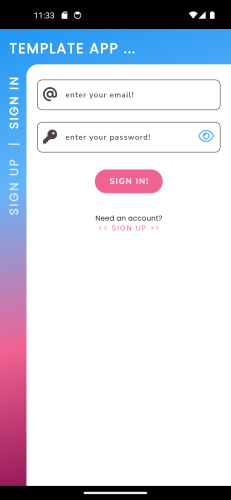
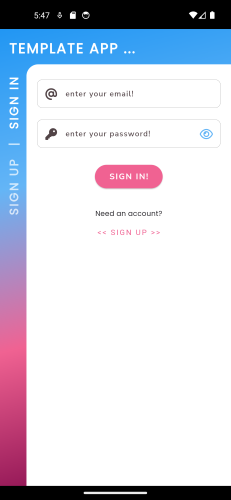
Notification

Changed region(s): [[0.1515, 0.15, 0.9697, 0.39], [0.3939, 0.42, 0.697, 0.48], [0.1515, 0.0, 0.3939, 0.06]]

diff --git a/lib/views/widgets/scaffold/app_bar/button_popup_menu_app_bar.dart b/lib/views/widgets/scaffold/app_bar/button_popup_menu_app_bar.dart
@@ -15,6 +15,9 @@ import 'package:template_app/controllers/authentication_controller.dart';
 class ButtonPopupMenuAppBar extends StatelessWidget {
   const ButtonPopupMenuAppBar({super.key});
 
+  // Pour le test.
+  static const int _count = 3;
+
   @override
   Widget build(BuildContext context) {
     return Positioned(
@@ -22,15 +25,34 @@ class ButtonPopupMenuAppBar extends StatelessWidget {
       right: 20.0,
       child: PopupMenuButton<TypeMenuPopup>(
         style: ButtonsTheme.iconButtonSquare,
-        icon: const Icon(Icons.more_vert),
+        icon: (_count <= 0)
+            ? const Icon(Icons.more_vert)
+            : Badge.count(
+                count: _count,
+                child: const Icon(Icons.more_vert),
+              ),
         onSelected: (TypeMenuPopup item) {},
         itemBuilder: (BuildContext context) {
           return <PopupMenuEntry<TypeMenuPopup>>[
             PopupMenuItem<TypeMenuPopup>(
+              value: TypeMenuPopup.typeNotifier,
+              child: ListTile(
+                onTap: () {},
+                leading: (_count <= 0)
+                    ? const Icon(Icons.notifications, size: 20.0)
+                    : Badge.count(
+                        count: _count,
+                        child: const Icon(Icons.notifications, size: 20.0),
+                      ),
+                title: const Text(TextsConstant.kPopupBtnNotification),
+              ),
+            ),
+            const PopupMenuDivider(height: 0.2),
+            PopupMenuItem<TypeMenuPopup>(
               value: TypeMenuPopup.typeInformation,
               child: ListTile(
                 onTap: () => context.push(RoutesConstant.kRouteInformation),
-                leading: const FaIcon(FontAwesomeIcons.info, size: 16.0),
+                leading: const Icon(FontAwesomeIcons.info, size: 20.0),
                 title: const Text(TextsConstant.kPopupBtnInformation),
               ),
             ),
@@ -53,7 +75,7 @@ class ButtonPopupMenuAppBar extends StatelessWidget {
                     SnackBarMessage.show(context: context, typeMessage: TypeMessage.typeError, message: e.toString());
                   }
                 },
-                leading: const FaIcon(FontAwesomeIcons.rightFromBracket, size: 16.0),
+                leading: const Icon(FontAwesomeIcons.rightFromBracket, size: 20.0),
                 title: const Text(TextsConstant.kPopupBtnDisconnection),
               ),
             ),

diff --git a/lib/views/screens/presentation/presentation_screen.dart b/lib/views/screens/presentation/presentation_screen.dart
@@ -66,7 +66,7 @@ class _PresentationScreenState extends State<PresentationScreen> {
                         : IconButton(
                             style: ButtonsTheme.iconButtonCircle,
                             onPressed: () => _pageController.animateToPage(_currentPage - 1, duration: const Duration(milliseconds: 200), curve: Curves.easeIn),
-                            icon: const FaIcon(FontAwesomeIcons.caretLeft, size: 24.0),
+                            icon: const Icon(FontAwesomeIcons.caretLeft, size: 24.0),
                           ),
                   ),
                   Expanded(
@@ -87,7 +87,7 @@ class _PresentationScreenState extends State<PresentationScreen> {
                         : IconButton(
                             style: ButtonsTheme.iconButtonCircle,
                             onPressed: () => _pageController.animateToPage(_currentPage + 1, duration: const Duration(milliseconds: 200), curve: Curves.easeIn),
-                            icon: const FaIcon(FontAwesomeIcons.caretRight, size: 24.0),
+                            icon: const Icon(FontAwesomeIcons.caretRight, size: 24.0),
                           ),
                   ),
                 ],

diff --git a/lib/views/screens/main/pages/home_page.dart b/lib/views/screens/main/pages/home_page.dart
@@ -2,7 +2,7 @@ import 'package:flutter/material.dart';
 import 'package:template_app/common/constants/texts_constant.dart';
 import 'package:template_app/common/extensions/string_extensions.dart';
 import 'package:template_app/views/widgets/scaffold/app_bar/background_app_bar.dart';
-import 'package:template_app/views/widgets/scaffold/app_bar/button_notification_app_bar.dart';
+import 'package:template_app/views/widgets/scaffold/app_bar/button_filter_search_app_bar.dart';
 import 'package:template_app/views/widgets/scaffold/app_bar/button_popup_menu_app_bar.dart';
 import 'package:template_app/views/widgets/scaffold/app_bar/search_text_field_app_bar.dart';
 import 'package:template_app/views/widgets/scaffold/app_bar/title_app_bar.dart';
@@ -20,10 +20,10 @@ class HomePage extends StatelessWidget {
             const TitleAppBar(),
             SearchTextFieldAppBar(
               onSubmitted: (value) {
-                print(value);
+                // print(value);
               },
             ),
-            const ButtonNotificationAppBar(),
+            const ButtonFilterSearchAppBar(),
             const ButtonPopupMenuAppBar(),
             Positioned(
               left: 0.0,

diff --git a/lib/views/widgets/form/by_usual/text_form_field_password.dart b/lib/views/widgets/form/by_usual/text_form_field_password.dart
@@ -36,13 +36,13 @@ class _TextFormFieldPasswordState extends State<TextFormFieldPassword> {
           hintText: TextsConstant.kPassword,
           prefixIcon: const Padding(
             padding: EdgeInsets.all(10.0),
-            child: FaIcon(FontAwesomeIcons.key),
+            child: Icon(FontAwesomeIcons.key, size: 20.0),
           ),
           suffixIcon: Padding(
             padding: const EdgeInsets.all(10.0),
             child: GestureDetector(
               onTap: () => setState(() => _obscureTextPassword = !_obscureTextPassword),
-              child: FaIcon(_obscureTextPassword ? FontAwesomeIcons.eye : FontAwesomeIcons.eyeSlash, color: ColorsTheme.kBlueLight),
+              child: Icon(_obscureTextPassword ? FontAwesomeIcons.eye : FontAwesomeIcons.eyeSlash, size: 20.0, color: ColorsTheme.kBlueLight),
             ),
           ),
         ),

diff --git a/lib/views/widgets/scaffold/app_bar/search_text_field_app_bar.dart b/lib/views/widgets/scaffold/app_bar/search_text_field_app_bar.dart
@@ -42,7 +42,7 @@ class _SearchTextFieldAppBarState extends State<SearchTextFieldAppBar> {
               alignment: Alignment.center,
               child: GestureDetector(
                 onTap: () => widget.onSubmitted(_searchController.text),
-                child: const FaIcon(
+                child: const Icon(
                   FontAwesomeIcons.magnifyingGlass,
                   color: ColorsTheme.kBlack,
                   size: 20.0,
@@ -57,7 +57,7 @@ class _SearchTextFieldAppBarState extends State<SearchTextFieldAppBar> {
                   _searchController.text = "";
                   widget.onSubmitted("");
                 },
-                child: const FaIcon(
+                child: const Icon(
                   FontAwesomeIcons.xmark,
                   color: ColorsTheme.kBlack,
                   size: 20.0,

diff --git a/lib/views/widgets/scaffold/app_bar/button_filter_search_app_bar.dart b/lib/views/widgets/scaffold/app_bar/button_filter_search_app_bar.dart
@@ -1,0 +1,24 @@
+import 'package:flutter/material.dart';
+import 'package:font_awesome_flutter/font_awesome_flutter.dart';
+import 'package:template_app/common/constants/texts_constant.dart';
+import 'package:template_app/common/themes/buttons_theme.dart';
+
+class ButtonFilterSearchAppBar extends StatelessWidget {
+  const ButtonFilterSearchAppBar({super.key});
+
+  @override
+  Widget build(BuildContext context) {
+    return Positioned(
+      top: 40.0,
+      right: 65.0,
+      child: IconButton(
+        style: ButtonsTheme.iconButtonSquare,
+        icon: const Icon(FontAwesomeIcons.sliders),
+        onPressed: () {
+          // TODO: Brancher le compteur.
+        },
+        tooltip: TextsConstant.kTooltipButtonFilterSearch,
+      ),
+    );
+  }
+}

diff --git a/lib/common/constants/texts_constant.dart b/lib/common/constants/texts_constant.dart
@@ -20,6 +20,7 @@ class TextsConstant {
   static const String kBtnSkipIntro = "Skip Intro";
   static const String kBtnGetStarted = "Let's Get Started";
 
+  static const String kPopupBtnNotification = "Notifications";
   static const String kPopupBtnInformation = "Information";
   static const String kPopupBtnDisconnection = "Disconnection";
 
@@ -37,6 +38,7 @@ class TextsConstant {
 
   static const String kTooltipButtonBack = "Back";
   static const String kTooltipButtonNotification = "Notifications";
+  static const String kTooltipButtonFilterSearch = "Filter search";
 
   static const String kAppName = "name";
   static const String kAppVersion = "version";

diff --git a/lib/common/themes/datas_theme.dart b/lib/common/themes/datas_theme.dart
@@ -17,7 +17,7 @@ class DatasTheme {
       centerTitle: true,
     ),
     textTheme: GoogleFonts.poppinsTextTheme(),
-    dividerTheme: const DividerThemeData(color: ColorsTheme.kPrimary),
+    //dividerTheme: const DividerThemeData(color: ColorsTheme.kPrimary),
     progressIndicatorTheme: const ProgressIndicatorThemeData(color: ColorsTheme.kBlueLight),
     cardTheme: const CardTheme(
       color: ColorsTheme.kOnPrimary,

diff --git a/lib/views/widgets/card/window_item_link_card.dart b/lib/views/widgets/card/window_item_link_card.dart
@@ -30,7 +30,7 @@ class WindowItemLinkCard extends StatelessWidget {
           ),
           GestureDetector(
             onTap: () => LauncherService.launchUri(context: context, url: url),
-            child: const FaIcon(FontAwesomeIcons.globe, color: ColorsTheme.kBlueLight, size: 20.0),
+            child: const Icon(FontAwesomeIcons.globe, color: ColorsTheme.kBlueLight, size: 20.0),
           ),
         ],
       ),

diff --git a/lib/views/widgets/form/by_usual/text_form_field_email.dart b/lib/views/widgets/form/by_usual/text_form_field_email.dart
@@ -43,7 +43,7 @@ class TextFormFieldEmail extends StatelessWidget {
           hintText: TextsConstant.kEmail,
           prefixIcon: const Padding(
             padding: EdgeInsets.all(10.0),
-            child: FaIcon(FontAwesomeIcons.at),
+            child: Icon(FontAwesomeIcons.at, size: 20.0),
           ),
         ),
         keyboardType: TextInputType.emailAddress,

diff --git a/lib/views/widgets/form/by_usual/text_form_field_fullname.dart b/lib/views/widgets/form/by_usual/text_form_field_fullname.dart
@@ -27,7 +27,7 @@ class TextFormFieldFullname extends StatelessWidget {
           hintText: TextsConstant.kFullname,
           prefixIcon: const Padding(
             padding: EdgeInsets.all(10.0),
-            child: FaIcon(FontAwesomeIcons.solidUser),
+            child: Icon(FontAwesomeIcons.solidUser, size: 20.0),
           ),
         ),
       ),

diff --git a/lib/common/enums/menu_popup_enum.dart b/lib/common/enums/menu_popup_enum.dart
@@ -1,5 +1,6 @@
 // Type de messages pour le "PopupMenuButton".
 enum TypeMenuPopup {
+  typeNotifier,
   typeInformation,
   typeSignOut,
 }
